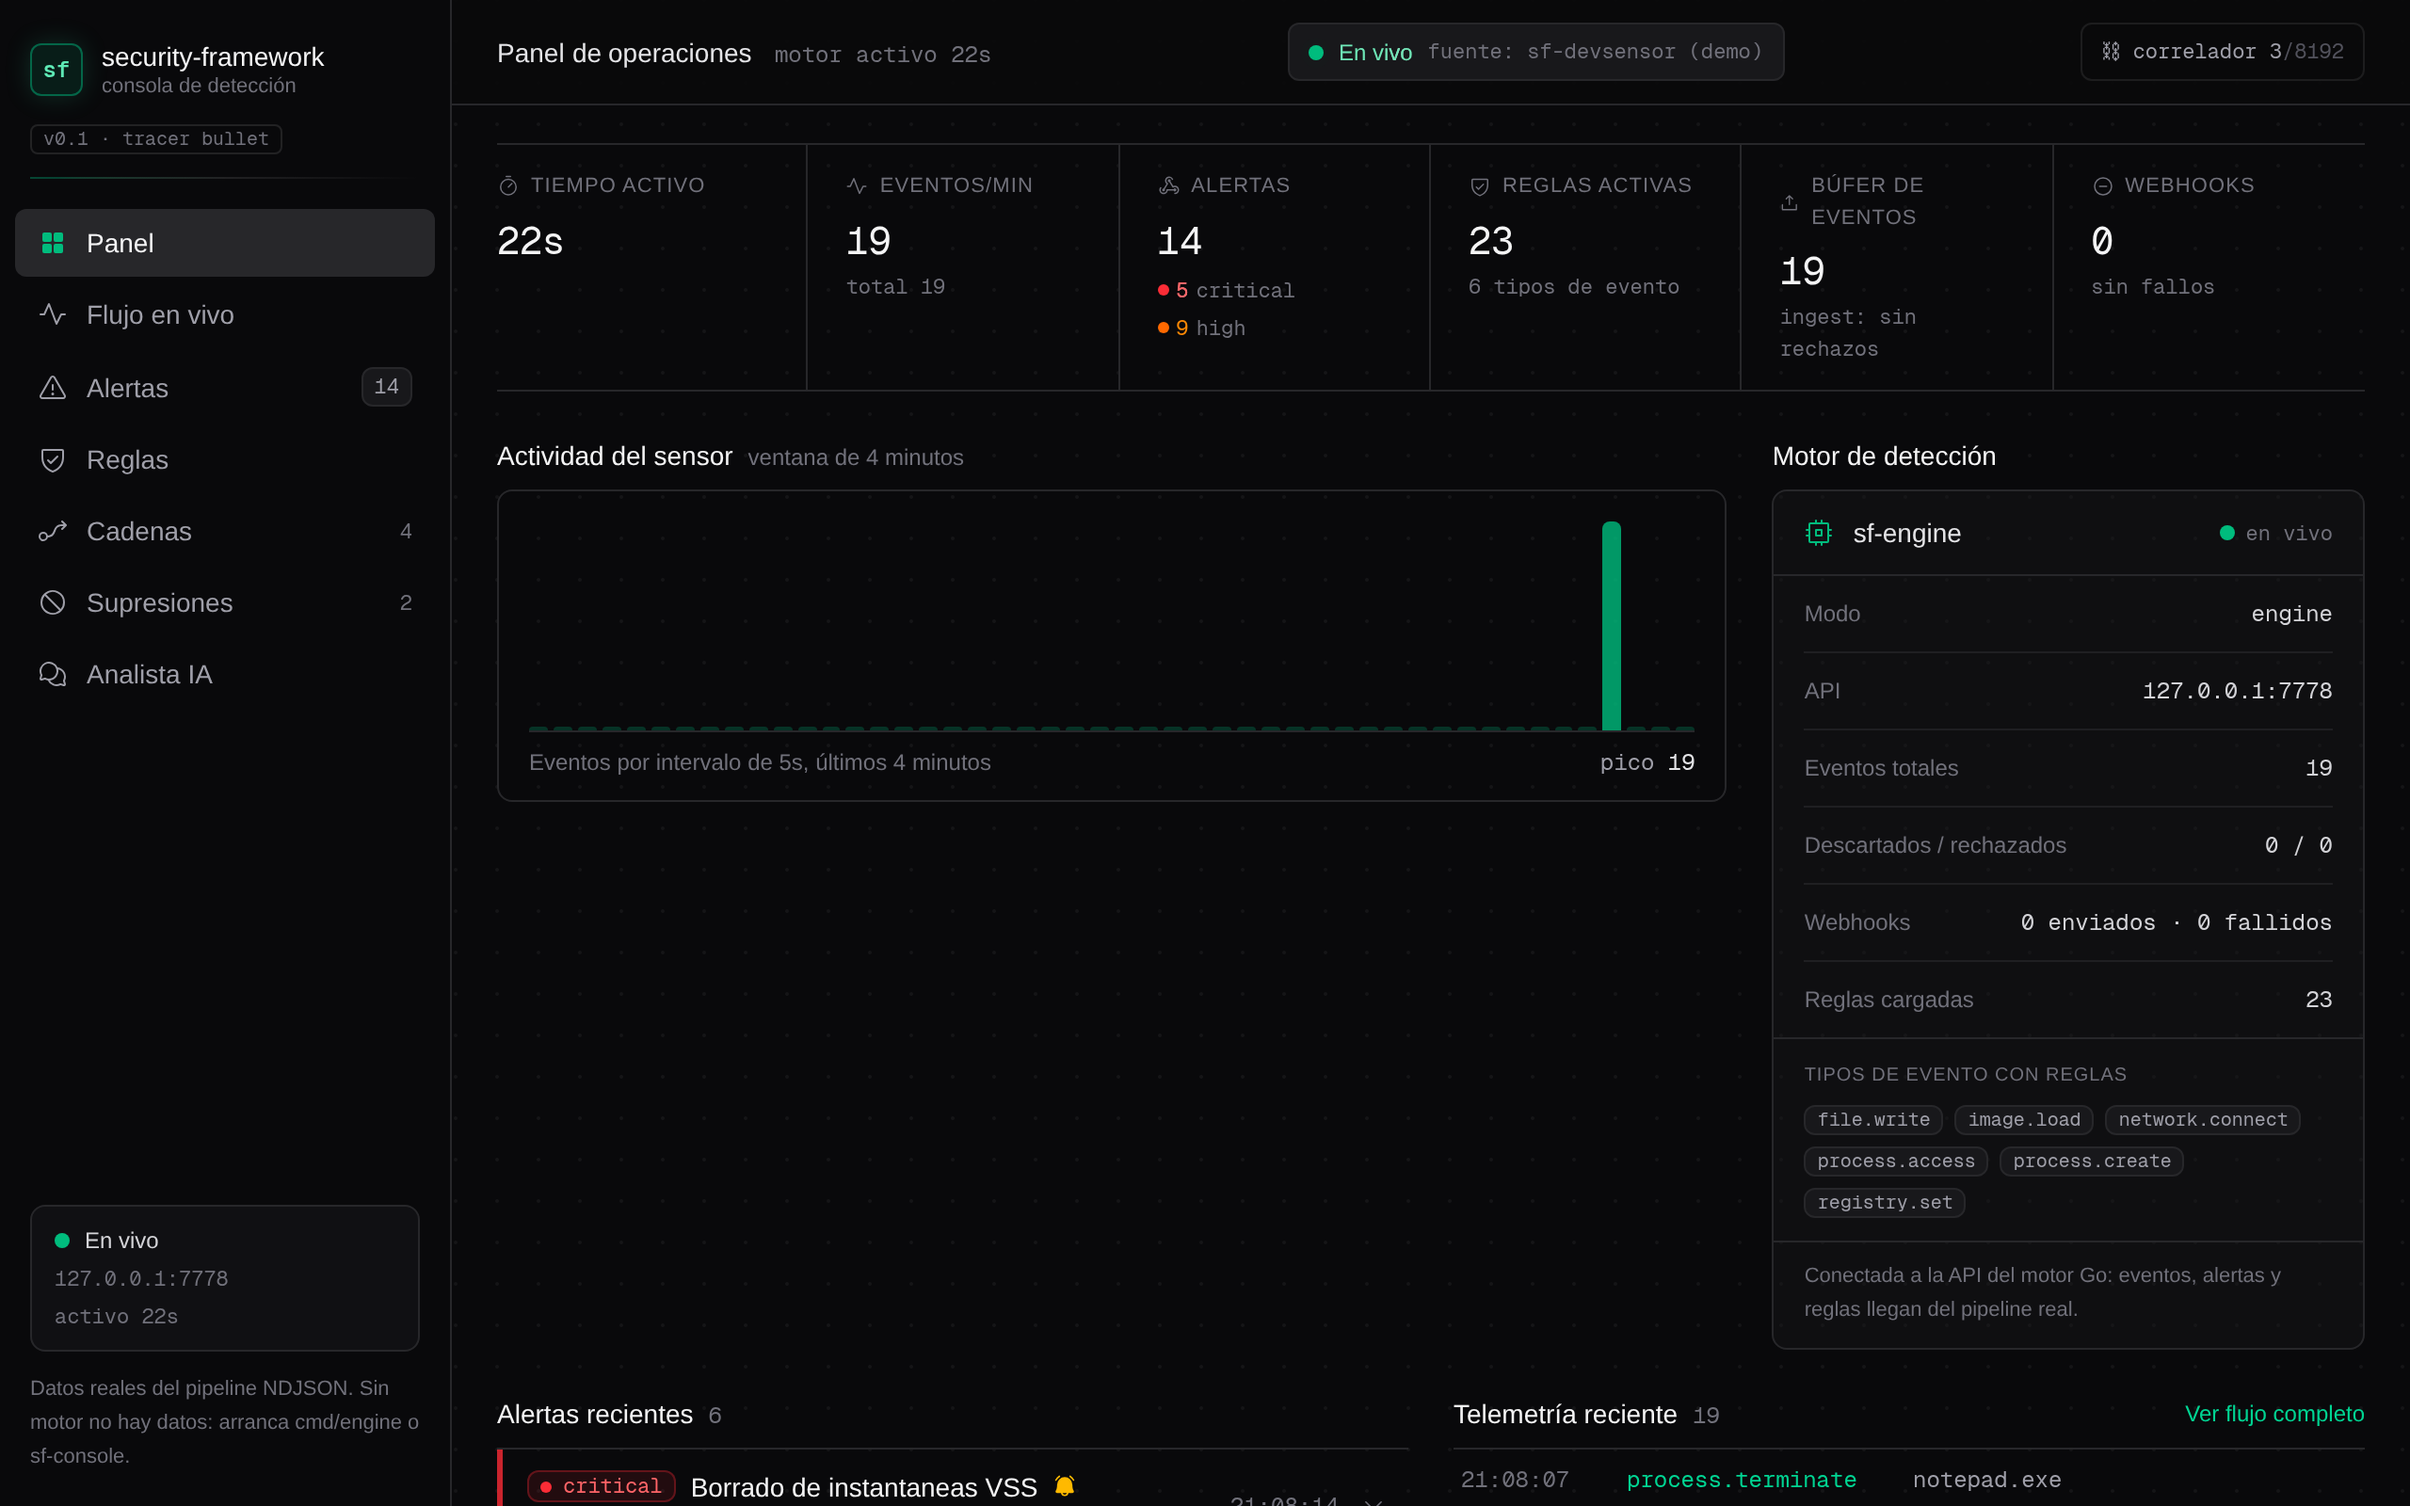
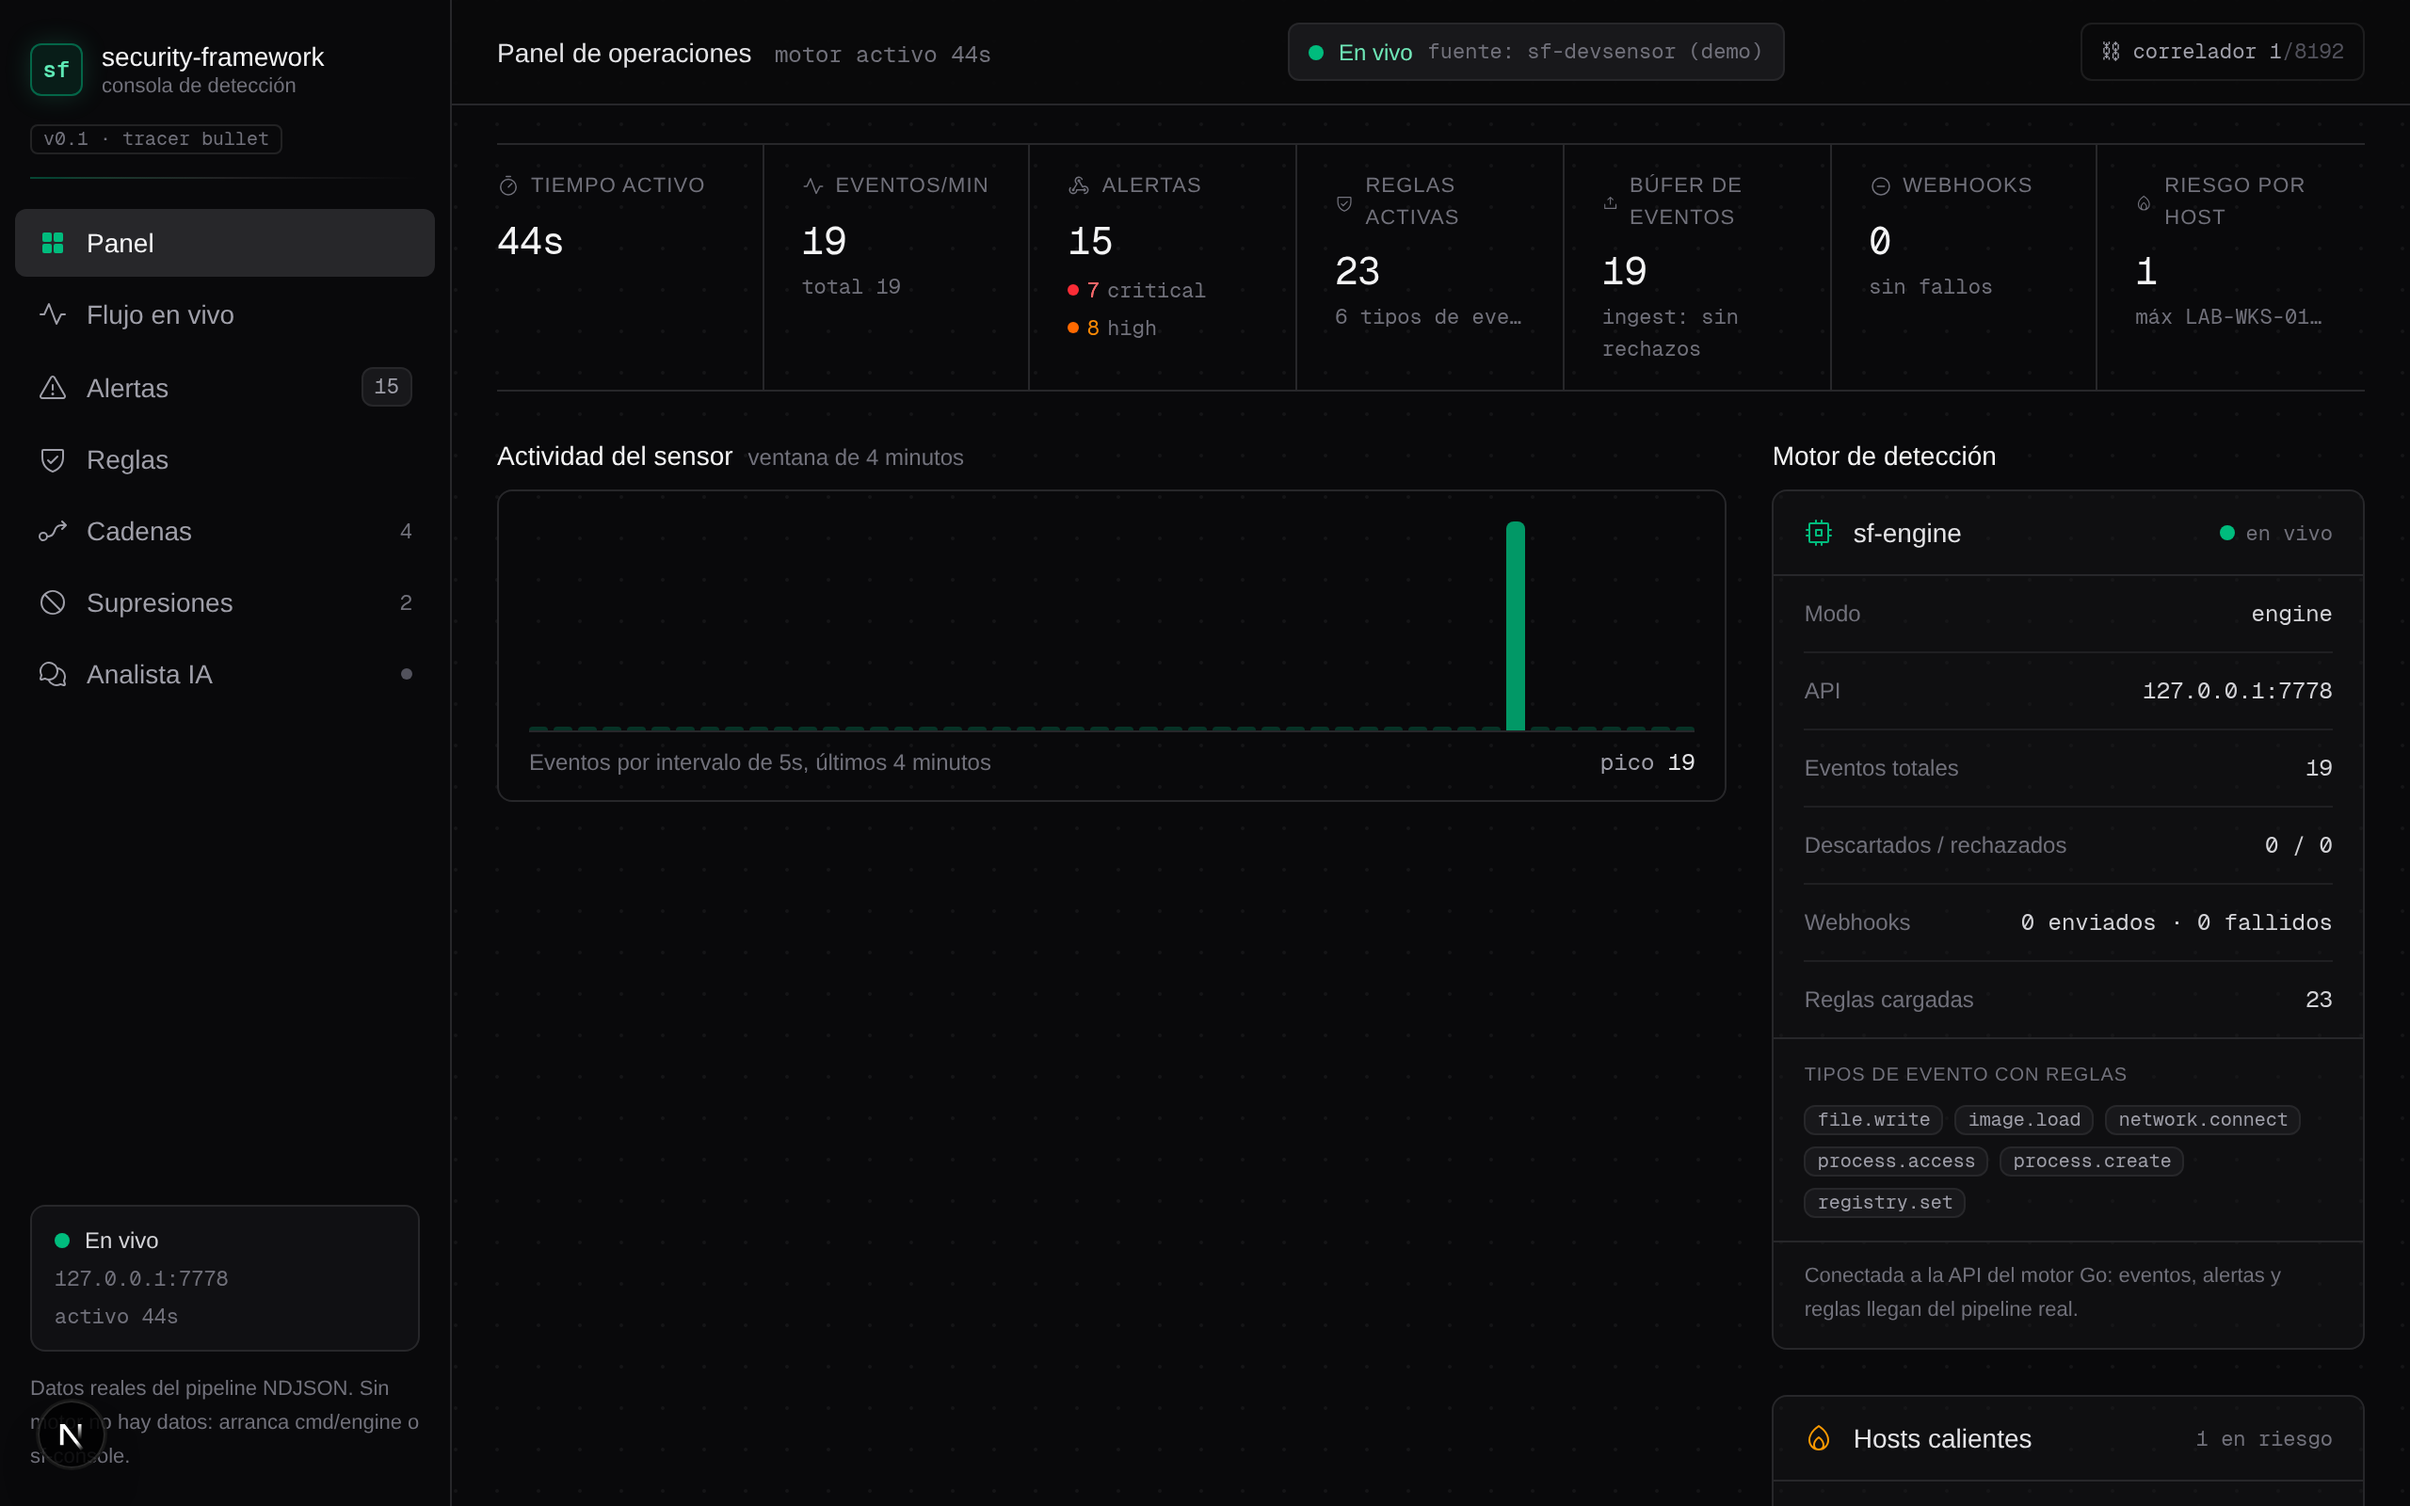
polish(console+docs): complete SpotlightCard wiring (6-a interrupted round) and regenerate README captures over the current design
- kpi-row/dashboard: the 7 KPI cells and the 3 dashboard panels adopt SpotlightCard (halo emerald under pointer/focus-within, transparent at rest, reduced-motion already covered by the 6-a CSS); zero new deps, zero CSS changes
- captures: official capture_console.mjs run against the real stack (engine + devsensor demo + 2 armed operator suppressions, INC-4187) refreshes the 6 README PNGs and the search GIF (6 frames, 179 KB); triage shot is a real POST through the engine proxy
- acta: docs/agentes/03-pulimiento/ronda_2026-09-30_11h41.md (findings: console-v2 captures now redundant, hygiene candidate for 03)

diff --git a/web/console/src/components/console/dashboard.tsx b/web/console/src/components/console/dashboard.tsx
@@ -13,6 +13,7 @@ import { ActivityChart } from './activity-chart'
 import { AlertsView } from './alerts-view'
 import { EmptyState, OfflineNotice, SectionHeader, SkeletonRows, MonoTag } from './ui-bits'
 import { AnimatedItem } from '@/components/reactbits/animated-list'
+import { SpotlightCard } from '@/components/reactbits/spotlight-card'
 import { eventDetail, formatTime, type SfAlert } from '@/lib/console-types'
 
 export type ConsoleView = 'panel' | 'flujo' | 'alertas' | 'reglas' | 'cadenas' | 'supresiones' | 'analista'
@@ -40,9 +41,11 @@ export function Dashboard({
       <div className="grid gap-6 xl:grid-cols-3">
         <section aria-label="Actividad del sensor" className="min-w-0 xl:col-span-2">
           <SectionHeader title="Actividad del sensor" hint="ventana de 4 minutos" />
-          <div className="rounded-lg border border-zinc-800 px-4 pb-3 pt-4">
+          {/* SpotlightCard (React Bits): profundidad del panel bajo el puntero;
+              en reposo es la misma tarjeta con borde hairline de siempre */}
+          <SpotlightCard className="rounded-lg border border-zinc-800 px-4 pb-3 pt-4">
             <ActivityChart events={events} />
-          </div>
+          </SpotlightCard>
         </section>
 
         <section aria-label="Resumen del motor" className="flex min-w-0 flex-col gap-6">
@@ -126,7 +129,9 @@ function HotHostsPanel() {
     score >= 20 ? 'bg-red-500/70' : score >= 5 ? 'bg-amber-500/70' : 'bg-emerald-500/70'
 
   return (
-    <div className="min-w-0 flex-1 rounded-lg border border-zinc-800 bg-zinc-900/40">
+    // SpotlightCard (React Bits): halo esmeralda al pasar el raton o al
+    // enfocar un control interno; en reposo, la tarjeta hairline original.
+    <SpotlightCard className="min-w-0 flex-1 rounded-lg border border-zinc-800 bg-zinc-900/40">
       <div className="flex items-center gap-2.5 border-b border-zinc-800 px-4 py-3">
         <Flame size={16} aria-hidden className="text-amber-500" />
         <span className="text-sm text-zinc-200">Hosts calientes</span>
@@ -181,7 +186,7 @@ function HotHostsPanel() {
         Puntuación de riesgo por host con decaimiento temporal (vida media 30 min): critical 10 · high 5 · medium 2 ·
         low 1 por alerta. Señal de priorización de triaje, no un veredicto de compromiso.
       </p>
-    </div>
+    </SpotlightCard>
   )
 }
 
@@ -223,7 +228,8 @@ function EngineSummary({ status }: { status: EngineStatus }) {
   ]
 
   return (
-    <div className="rounded-lg border border-zinc-800 bg-zinc-900/40">
+    // SpotlightCard (React Bits): mismo criterio que HotHostsPanel.
+    <SpotlightCard className="rounded-lg border border-zinc-800 bg-zinc-900/40">
       <div className="flex items-center gap-2.5 border-b border-zinc-800 px-4 py-3">
         <Cpu size={16} aria-hidden className="text-emerald-500" />
         <span className="text-sm text-zinc-200">sf-engine</span>
@@ -258,6 +264,6 @@ function EngineSummary({ status }: { status: EngineStatus }) {
         </div>
       </div>
       <p className="border-t border-zinc-800 px-4 py-2.5 text-[11px] leading-relaxed text-zinc-500">{statusLine}</p>
-    </div>
+    </SpotlightCard>
   )
 }

diff --git a/web/console/src/components/console/kpi-row.tsx b/web/console/src/components/console/kpi-row.tsx
@@ -8,6 +8,7 @@
 import { ActivityIcon, Flame, MinusCircle, ShieldCheck, Timer, UploadSimple, WebhooksLogo } from '@phosphor-icons/react'
 import { AnimatedNumber } from './ui-bits'
 import { GradientText } from '@/components/reactbits/gradient-text'
+import { SpotlightCard } from '@/components/reactbits/spotlight-card'
 import { formatUptime, SEVERITY_STYLE, type EngineStats, type Severity } from '@/lib/console-types'
 
 const SEV_ORDER: Severity[] = ['critical', 'high', 'medium', 'low']
@@ -21,14 +22,18 @@ function Kpi({
   icon: React.ElementType
   children: React.ReactNode
 }) {
+  // SpotlightCard (React Bits): el halo esmeralda solo existe bajo el
+  // puntero (transparente en reposo), asi que la densidad de cabina y las
+  // hairlines del grid no cambian; el foco de teclado tambien lo enciende
+  // via focus-within.
   return (
-    <div className="min-w-0 px-4 py-3.5 first:pl-0 md:px-5">
+    <SpotlightCard className="min-w-0 px-4 py-3.5 first:pl-0 md:px-5">
       <p className="flex items-center gap-1.5 text-[11px] font-medium uppercase tracking-wider text-zinc-500">
         <Icon size={12} aria-hidden className="text-zinc-500" />
         {label}
       </p>
       <div className="mt-1.5">{children}</div>
-    </div>
+    </SpotlightCard>
   )
 }
 

diff --git a/docs/agentes/03-pulimiento/ronda_2026-09-30_11h41.md b/docs/agentes/03-pulimiento/ronda_2026-09-30_11h41.md
@@ -1,0 +1,54 @@
+# Informe de ronda — Agente frontend/React Bits (acta archivada en 03-pulimiento por dominio) — 2026-09-30 11h41 (Europe/Madrid)
+
+**Ronda:** Completar el cableado de `SpotlightCard` (trabajo que la ronda web-console del 29 dejó a medias por timeout del agente 6-a) y regenerar las capturas del README con el diseño actual (pendiente oficial anotado en dicha acta).
+**Base de partida:** `origin/main` = `b01b177` (árbol limpio, sin cambios paralelos durante la ronda; verificado con `git fetch` antes del commit).
+**Mandato:** directo del propietario — los efectos React Bits van al dashboard del proyecto y al README, no a productos sueltos.
+**Veredicto:** VERDE. La integración React Bits de la consola queda completa (8/8 componentes en uso) y las 7 capturas del README muestran el diseño vigente con telemetría real.
+
+---
+
+## 1. Resumen ejecutivo
+
+La ronda web-console (agente 6-a, integrada por el Director) construyó `spotlight-card.tsx` y su CSS en `globals.css` (incluido el guard `prefers-reduced-motion`), pero el agente murió por timeout antes de importarlo en ninguna vista: el componente estaba huérfano. Esta ronda lo cablea donde su propia documentación lo declara (KPI y paneles del dashboard) y cierra el segundo pendiente: las capturas `docs/assets/console-*.png/gif` siguen mostrando el diseño pre-rediseño; se regeneran todas con el script oficial sobre el stack real (engine + devsensor + supresiones armadas).
+
+## 2. Detalle por cambio
+
+### C1 — Cableado de SpotlightCard (completar trabajo interrumpido)
+- **Motivación:** componente huérfano (0 imports) con intención de integración documentada en su propio comentario ("da profundidad a los KPI y paneles sin romper la densidad de cabina"). El código huérfano lo marcaría cualquier barrido de higiene; la integración era el diseño.
+- **Acción:**
+  - `kpi-row.tsx`: las 7 celdas KPI pasan de `div` a `SpotlightCard` conservando clases (`min-w-0 px-4 py-3.5 first:pl-0 md:px-5`); las hairlines del grid y el layout no cambian porque el halo es transparente en reposo (`opacity: 0` → `:hover`/`:focus-within`).
+  - `dashboard.tsx`: los 3 paneles con tarjeta (`Actividad del sensor`, `EngineSummary`, `HotHostsPanel`) adoptan `SpotlightCard` como raíz conservando `rounded-lg border border-zinc-800` y `bg-zinc-900/40`.
+  - Sin dependencias nuevas ni cambios de CSS: el bloque `.spotlight-card` de la ronda 6-a ya cubría hover, focus-within y reduced-motion.
+- **Archivos:** `web/console/src/components/console/kpi-row.tsx`, `web/console/src/components/console/dashboard.tsx`.
+- **Verificación real:** `bunx tsc --noEmit` limpio; `next build` verde (rutas `/`, `/_not-found`, `/api/engine/[...path]`); E2E en navegador contra el motor real — halo en reposo `opacity: 0`, bajo el puntero `opacity: 1` (medido con `getComputedStyle` tras `mouse.move` a las coordenadas reales de la celda). Los 7 KPI + 3 paneles llevan el halo; el foco de teclado también lo enciende.
+
+### C2 — Capturas del README regeneradas con el diseño actual
+- **Motivación:** el hero del README (`console-panel.png`) y otras 5 capturas mostraban el diseño anterior al rediseño; pendiente anotado en la acta web-console.
+- **Acción:** ejecutado el script oficial `docs/assets/src/capture_console.mjs` sin modificaciones, sobre el stack real levantado en esta ronda:
+  - Toolchain Go 1.27.1 instalado fuera del repo (`toolchains/` del entorno); binarios `sf-engine`/`sf-devsensor` compilados pero NO commitados (higiene: cero artefactos de build en el árbol).
+  - Motor arrancado con `./rules` (23 reglas, 4 secuencias, 2 perfiles beacon) y `suppressions.yaml` operador-local (gitignored) con 2 entradas armadas según la receta de la propia acta 6-a (reglas de `rules/windows/` con ámbito `LAB-WKS-01`, motivo con INC y expiración futura) para que la vista de supresiones salga poblada como documenta el README.
+  - Escenario demo `sf-devsensor` (el único fixture permitido, etiquetado como demo en la propia UI: badge "En vivo · fuente: sf-devsensor (demo)").
+  - El disparo de triaje de la captura `console-alertas-triaje.png` es un POST real (consola → proxy → engine), no un mock.
+- **Archivos:** `docs/assets/console-panel.png`, `console-alertas.png`, `console-alertas-triaje.png`, `console-reglas.png`, `console-cadenas.png`, `console-supresiones.png`, `console-busqueda.gif` (reensamblado con los frames del script: 6 frames, 1100×744, 179 KB).
+- **Verificación real:** inventario de tamaños de los 15 assets; inspección visual de `console-panel.png` (7 KPI con datos reales, gráfica con pico del replay, DotGrid ambiental, sidebar con contadores coherentes) y de `console-supresiones.png` (2 entradas con regla, host, motivo y cuenta atrás "expira en 6d 20h"). El README no necesita cambios de texto: rutas y captions siguen siendo exactos.
+
+## 3. Notas de entorno (sin impacto en el árbol)
+
+- `playwright-core` instalado con `--no-save` en `node_modules` del entorno (fuera del repo) para no tocar `package.json`/`bun.lock` de la consola.
+- El stack quedó levantado en el entorno (engine :7777/:7778, consola dev :3000) para inspección del propietario; no forma parte del repo.
+
+## 4. Hallazgos para otros agentes
+
+- **03-pulimiento:** las 6 capturas `console-v2-*.png` añadidas en la ronda del Director quedaron redundantes tras esta regeneración (los nombres históricos ya muestran el diseño vigente) y no están referenciadas fuera de las actas. Candidatas a limpieza en una ronda de higiene; NO se eliminan aquí por límite de rol.
+- **02/04:** sin observaciones; no se ha tocado código Go ni contratos de API.
+
+## 5. Estado del árbol, README y dependencias
+
+- `git status` limpio tras el commit; cero archivos temporales; `suppressions.yaml` correcta y gitignored.
+- README sincronizado por C2 (capturas), sin cambios de texto necesarios.
+- `package.json`/`bun.lock` de la consola intactos; cero dependencias añadidas o retiradas.
+
+## 6. Pendientes para próximas rondas
+
+- Decisión de higiene sobre `console-v2-*.png` (ver hallazgo a 03).
+- El GIF de búsqueda podría regenerarse con una interacción más larga cuando se toque la vista de alertas; los frames actuales cubren el flujo documentado (buscar "lsass" filtra la cola).
